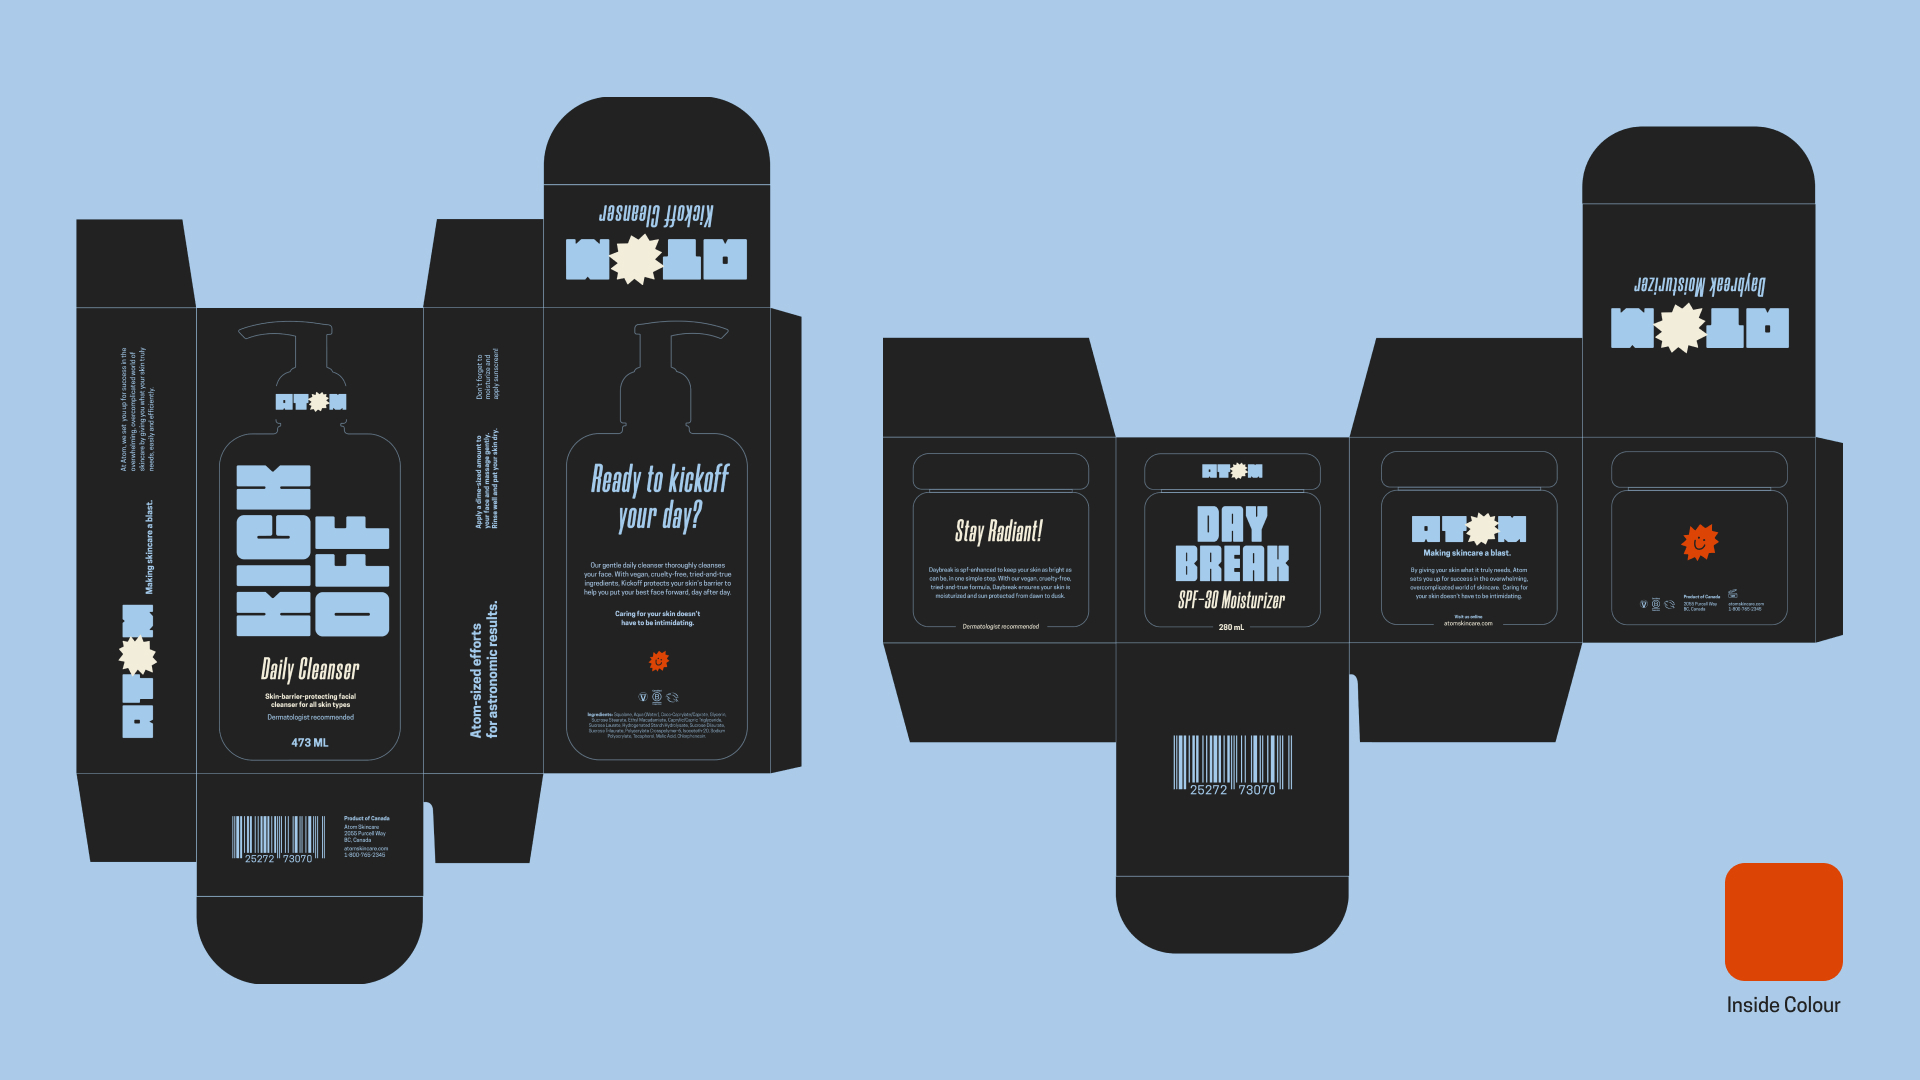
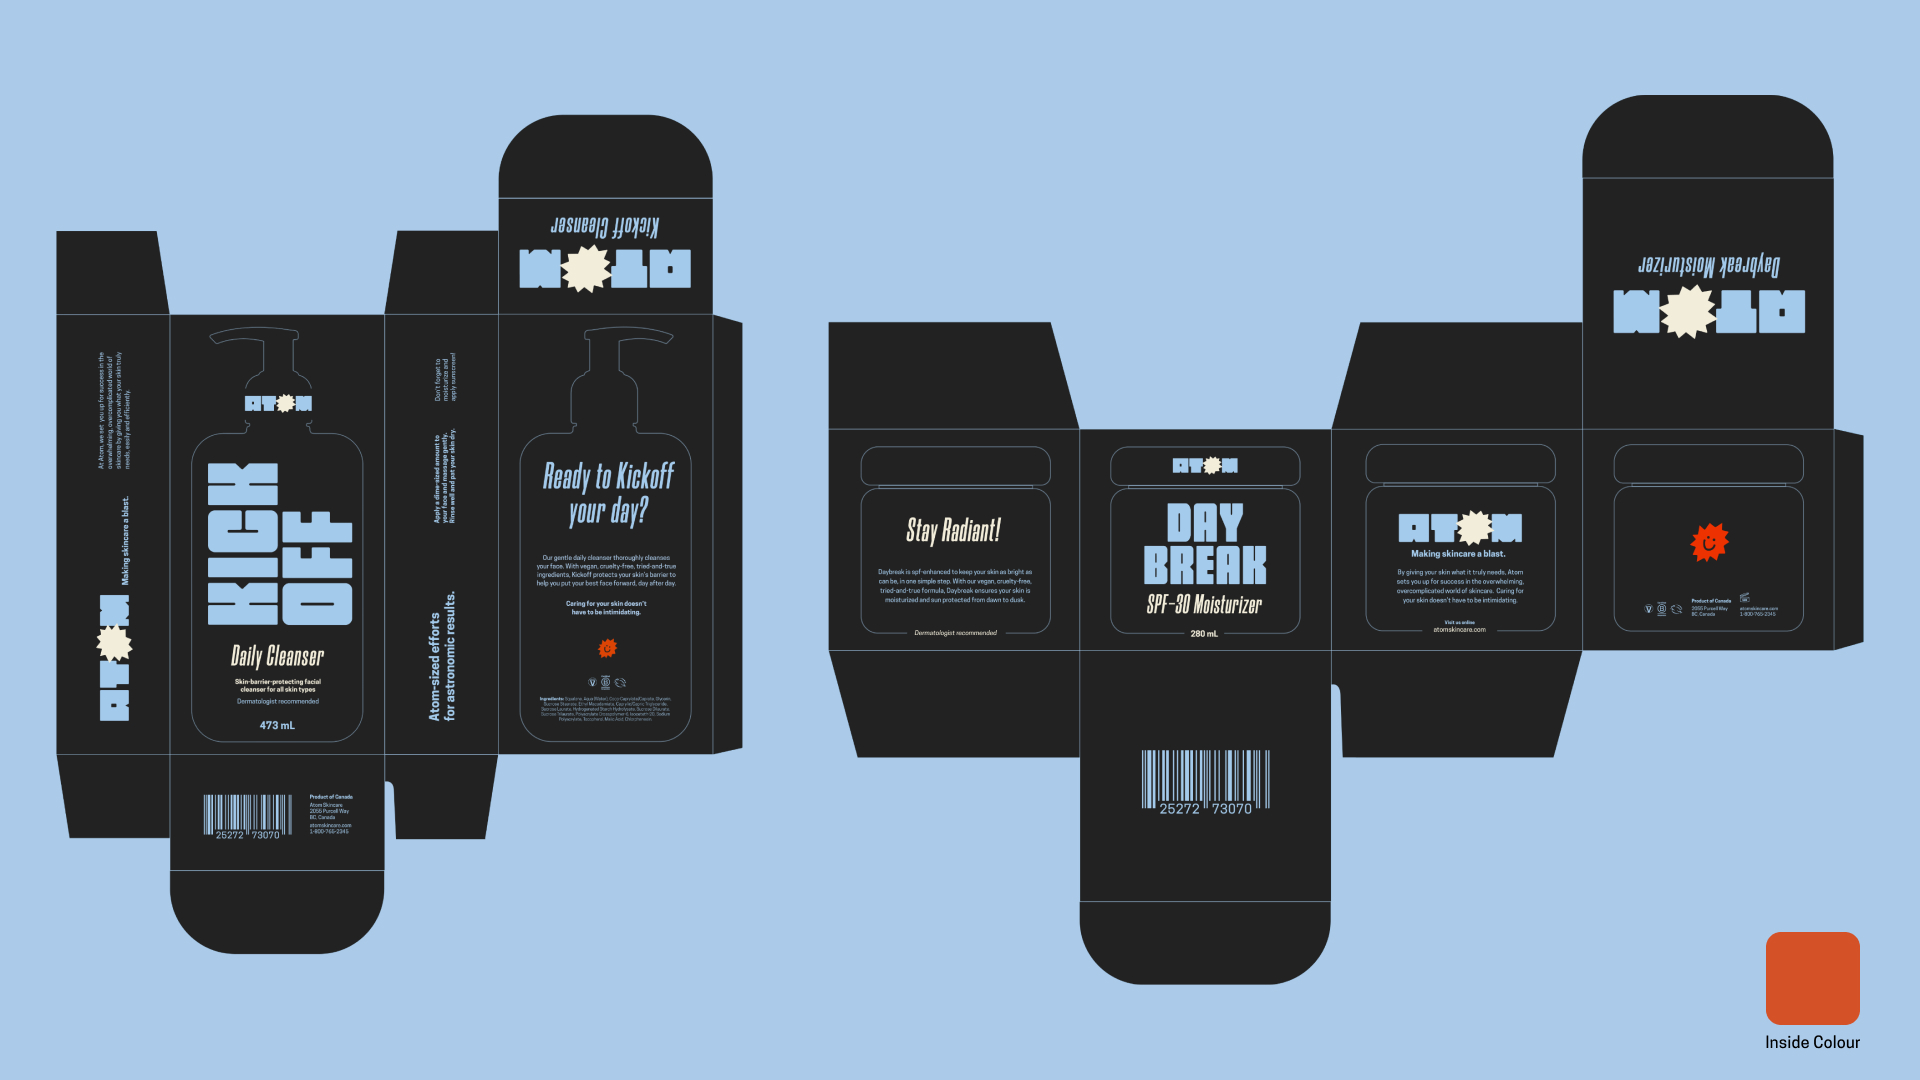
updates

diff --git a/styles/style.css b/styles/style.css
@@ -223,9 +223,9 @@ a:link {
   text-decoration: none;
 }
 
-a:visited {
+/* a:visited {
   color: var(--visited-color);
-}
+} */
 
 /* a:focus {
   outline: 1px solid var(--accent-color);
@@ -526,7 +526,7 @@ static header*/
 
 a.menu-item-grey:hover,
 a.menu-item-white:hover {
-  color: #f1f1f1;
+  color: white;
 }
 
 .menu-item-grey:hover,
@@ -541,10 +541,15 @@ a.menu-item-white:hover {
   grid-template-columns: 1fr 6fr;
 }
 
+.white-on-hover:hover {
+  color: ;
+}
+
 .project-name {
   grid-column: 2/2;
   justify-self: start;
 }
+
 .project-thumbnail {
   grid-column: 1/2;
   justify-self: start;
@@ -765,6 +770,14 @@ a.menu-item-white:hover {
   grid-template-columns: 1fr;
 }
 
+.project-gallery-grid {
+  display: grid;
+  grid-gap: 1rem;
+  background: var(--background-color-about);
+
+  grid-template-columns: 1fr;
+}
+
 .project-bottom-grid {
   display: grid;
   grid-gap: 1rem;
@@ -870,7 +883,22 @@ project-list-content {
   padding-bottom: 1rem;
 }
 
+.project-gallery-list {
+  display: grid;
+  grid-template-columns: 1fr;
+  flex-direction: column;
+  padding-left: 1rem;
+  padding-right: 1rem;
+  align-self: center;
+  max-width: 100%;
+  padding-bottom: 1rem;
+}
+
 .project-wrapper {
+  width: 100%;
+}
+
+.project-gallery-wrapper {
   width: 100%;
 }
 
@@ -1434,6 +1462,11 @@ a.sub-navigation-link:hover {
     grid-template-columns: 1fr 1fr;
   }
 
+  .project-gallery-grid {
+    grid-gap: 2rem;
+    grid-template-columns: 1fr 1fr;
+  }
+
   .project-bottom-grid {
     grid-gap: 2rem;
     grid-template-columns: 1fr 1fr;
@@ -1515,14 +1548,8 @@ a.sub-navigation-link:hover {
     flex-direction: row;
   }
 
-  /* Sidebar on Large Devices */
-  .project-aside {
-    width: 35%;
-    height: 65vh;
-    position: -webkit-sticky;
-    position: sticky;
-    top: 5vh;
-    padding-right: 2rem;
+  .project-gallery-wrapper {
+    flex-direction: row;
   }
 
   .project-info {
@@ -1543,6 +1570,12 @@ a.sub-navigation-link:hover {
   }
 
   .project-image-list {
+    padding-left: 8rem;
+    padding-right: 8rem;
+    padding-bottom: 4rem;
+  }
+
+  .project-gallery-list {
     padding-left: 8rem;
     padding-right: 8rem;
     padding-bottom: 4rem;

diff --git a/work.html b/work.html
@@ -55,7 +55,12 @@
             src="assets/content-images/thumbnails/atom-thumbnail.jpg"
             alt="Hue thumnail"
           />
-          <a href="project-atom.html" id="navigation-item-1" class="item">
+          <a
+            class="white-on-hover"
+            href="project-atom.html"
+            id="navigation-item-1"
+            class="item"
+          >
             <h4 class="project-name">Atom Skincare</h4>
           </a>
         </li>
@@ -65,7 +70,12 @@
             src="assets/content-images/thumbnails/hue-thumbnail.jpg"
             alt="Hue thumnail"
           />
-          <a href="project-hue.html" id="navigation-item-2" class="item">
+          <a
+            class="white-on-hover"
+            href="project-hue.html"
+            id="navigation-item-2"
+            class="item"
+          >
             <h4 class="project-name">Hue Seasonal Eating</h4>
           </a>
         </li>
@@ -76,6 +86,7 @@
             alt="Hue thumnail"
           />
           <a
+            class="white-on-hover"
             href="project-cost-of-waste.html"
             id="navigation-item-3"
             class="item"
@@ -90,6 +101,7 @@
             alt="Hue thumnail"
           />
           <a
+            class="white-on-hover"
             href="project-untwist-the-truth.html"
             id="navigation-item-4"
             class="item"
@@ -103,7 +115,12 @@
             src="assets/content-images/thumbnails/capstone-thumbnail.jpg"
             alt="Hue thumnail"
           />
-          <a href="project-coming-soon" id="navigation-item-5" class="item">
+          <a
+            class="white-on-hover"
+            href="project-coming-soon"
+            id="navigation-item-5"
+            class="item"
+          >
             <h4 class="project-name">Capstone</h4>
           </a>
         </li>
@@ -114,6 +131,7 @@
             alt="Hue thumnail"
           />
           <a
+            class="white-on-hover"
             href="Project-illustration.html"
             id="navigation-item-6"
             class="item"

diff --git a/Project-illustration.html b/Project-illustration.html
@@ -61,17 +61,17 @@
     </div>
 
     <div>
-      <ul class="project-image-list">
-        <li class="project-wrapper">
+      <ul class="project-gallery-list">
+        <li class="project-gallery-wrapper">
           <div class="project-gallery">
-            <ul class="project-image-grid">
-              <li class="project-image-1">
+            <ul class="project-gallery-grid">
+              <li class="gallery-image-1">
                 <img
-                  src="assets/content-images/atom/anais-bayle-package-design-open-containers.jpg"
+                  src="assets/content-images/atom/anais-bayle-atom-layout-label-daybreak.jpg"
                   alt="Folded menu for Hue."
                 />
               </li>
-              <li class="project-image-2">
+              <li class="gallery-image-2">
                 <img
                   src="assets/content-images/atom/anais-bayle-packaging-box-design-kickoff-mockup.jpg"
                   alt="box and bottle design mockup for Atom Kickoff cleanser product."
